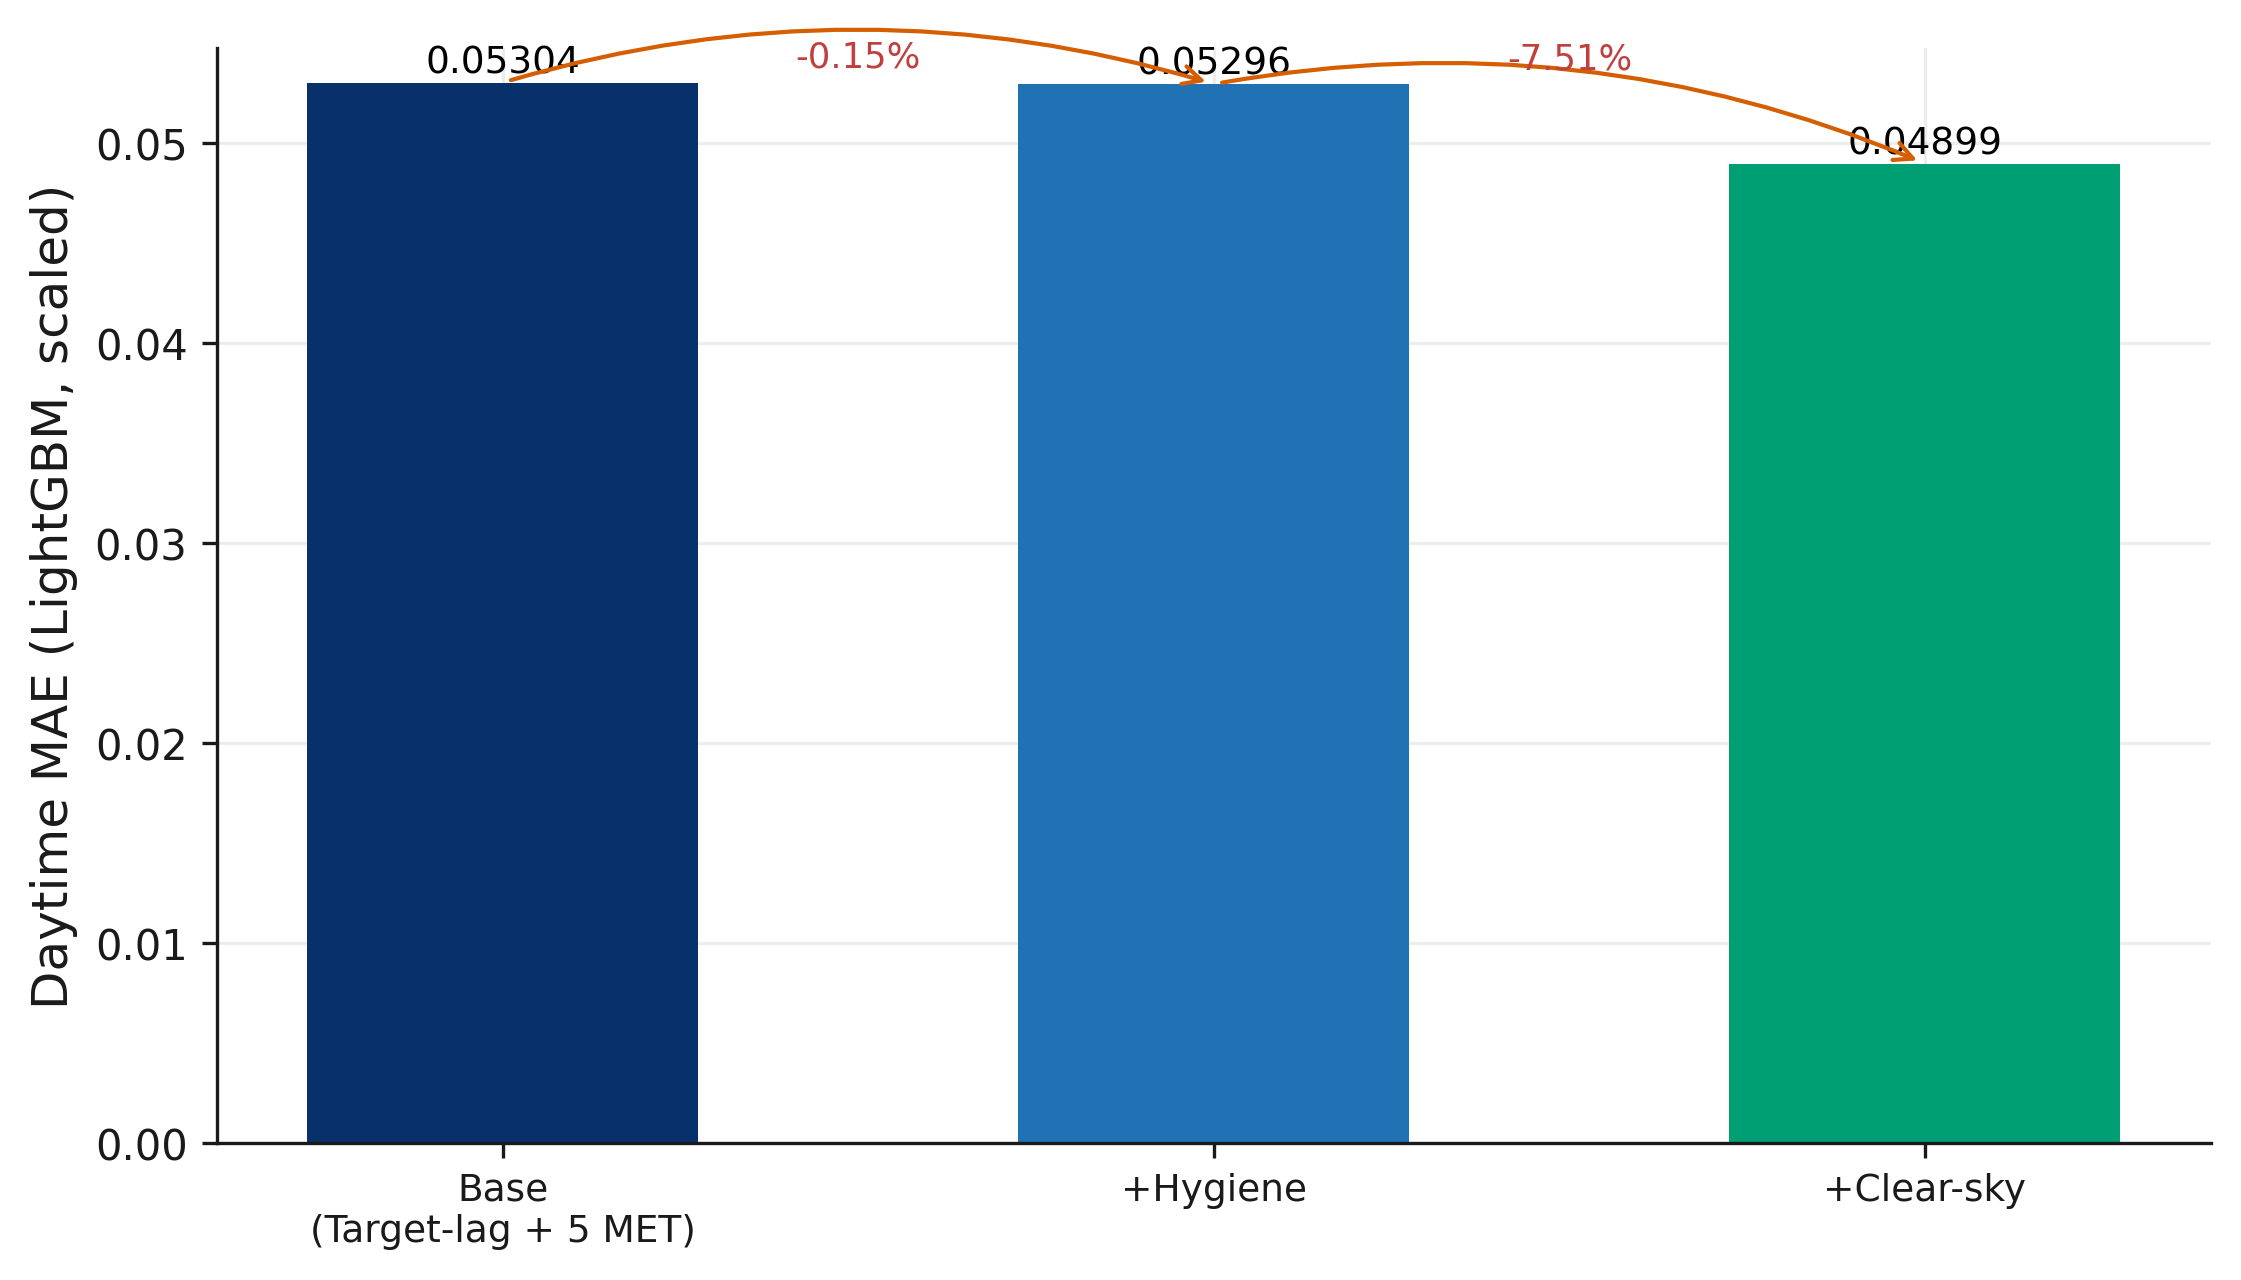
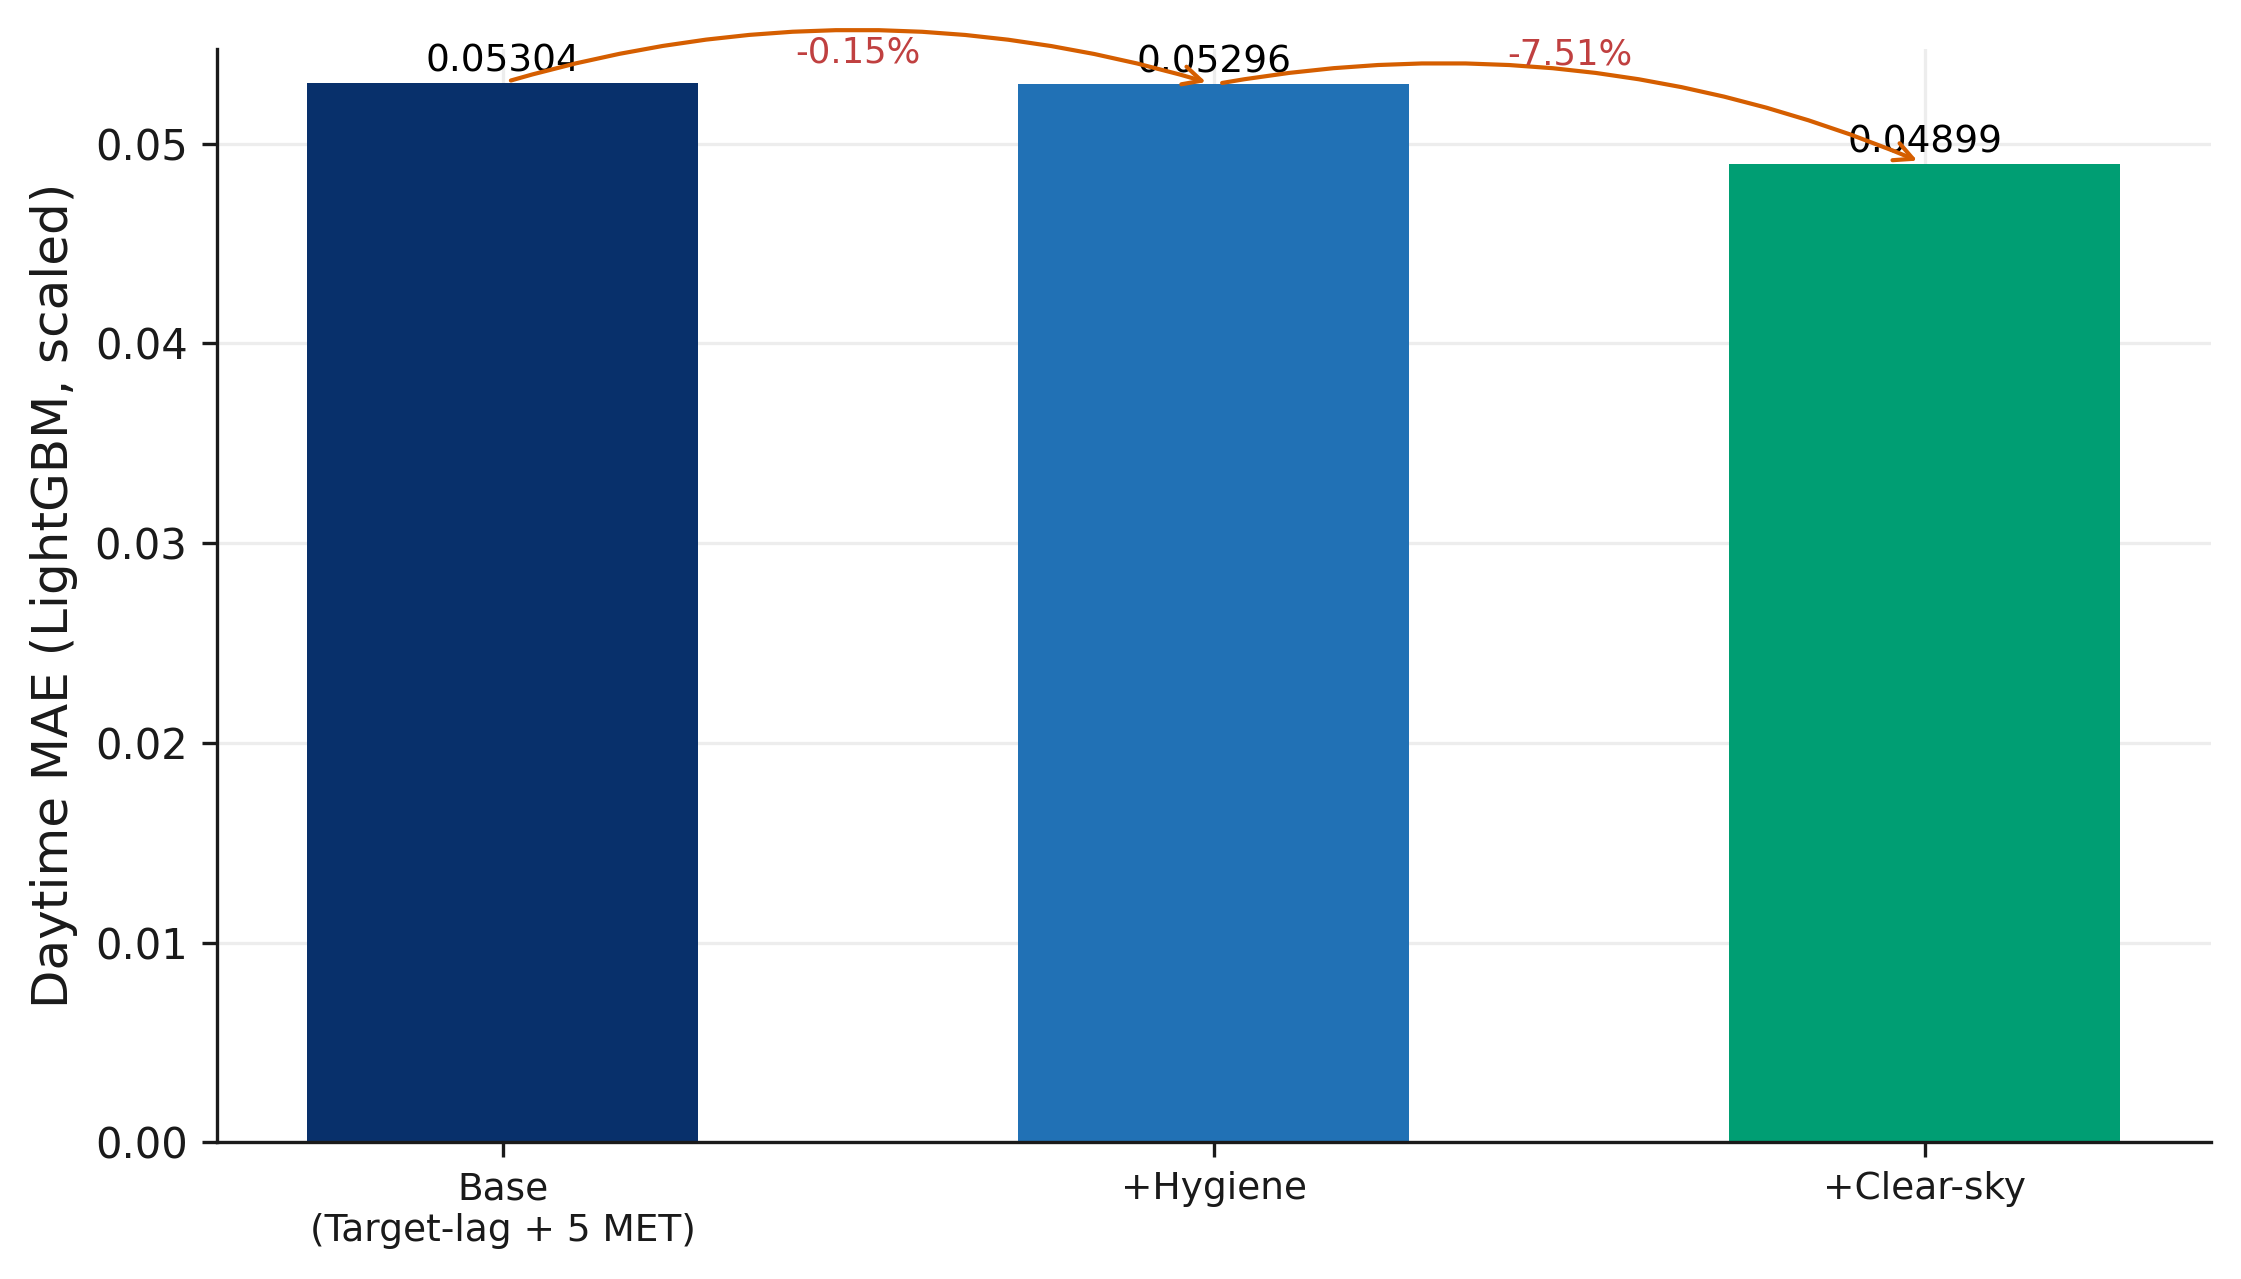
viz(e10b-met): lift value labels (+4.5% span) and pct labels (+16% span) clear of the orange connector arcs

diff --git a/scripts/e10b_waterfall_met.py b/scripts/e10b_waterfall_met.py
@@ -216,14 +216,14 @@ def main() -> int:
     ax.bar(x, main_mae, width=0.55, facecolor=colors, edgecolor="none")
     span = max(main_mae) - min(main_mae)
     for xi, v in zip(x, main_mae):
-        ax.text(xi, v + 0.018 * span, f"{v:.5f}", ha="center", va="bottom",
+        ax.text(xi, v + 0.045 * span, f"{v:.5f}", ha="center", va="bottom",
                 fontsize=9, color="black")
     for i in (1, 2):
         pct = (main_mae[i] / main_mae[i - 1] - 1) * 100
         ax.annotate("", xy=(i, main_mae[i]), xytext=(i - 1, main_mae[i - 1]),
                     arrowprops=dict(arrowstyle="->", color="#D55E00", lw=1.0,
                                     connectionstyle="arc3,rad=-0.15"))
-        ax.text(i - 0.5, max(main_mae[i], main_mae[i - 1]) + 0.10 * span,
+        ax.text(i - 0.5, max(main_mae[i], main_mae[i - 1]) + 0.16 * span,
                 f"{pct:+.2f}%", ha="center", va="bottom", fontsize=8.5,
                 color="#C04040")
     ax.set_xticks(x, stages, fontsize=9)
